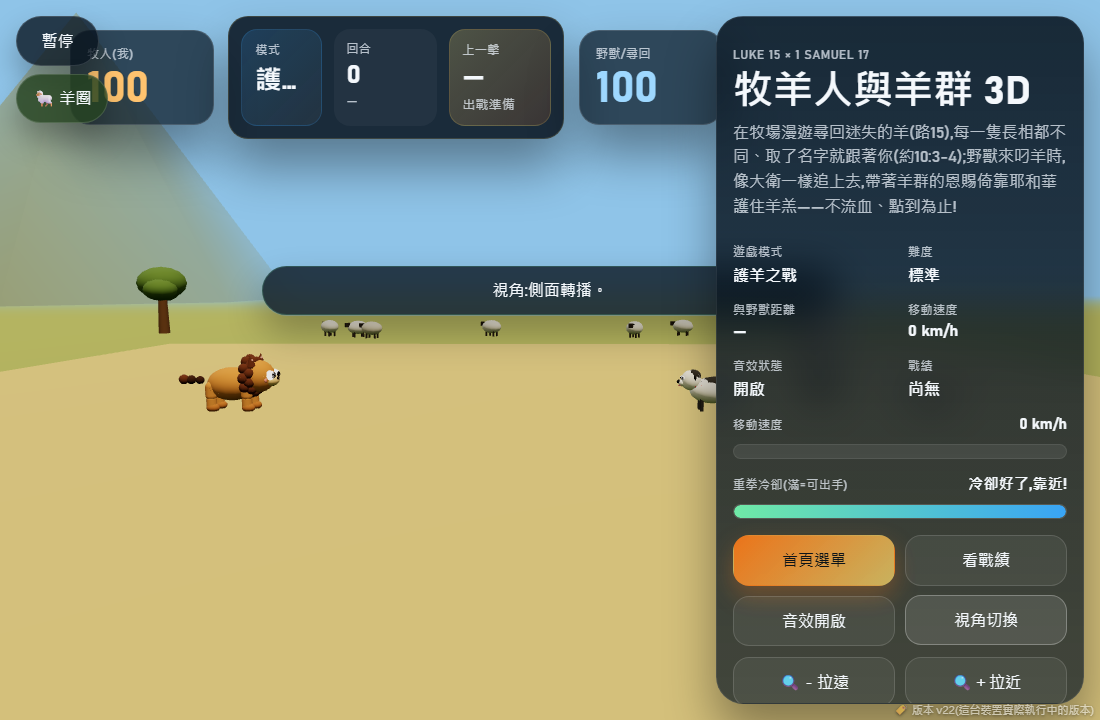
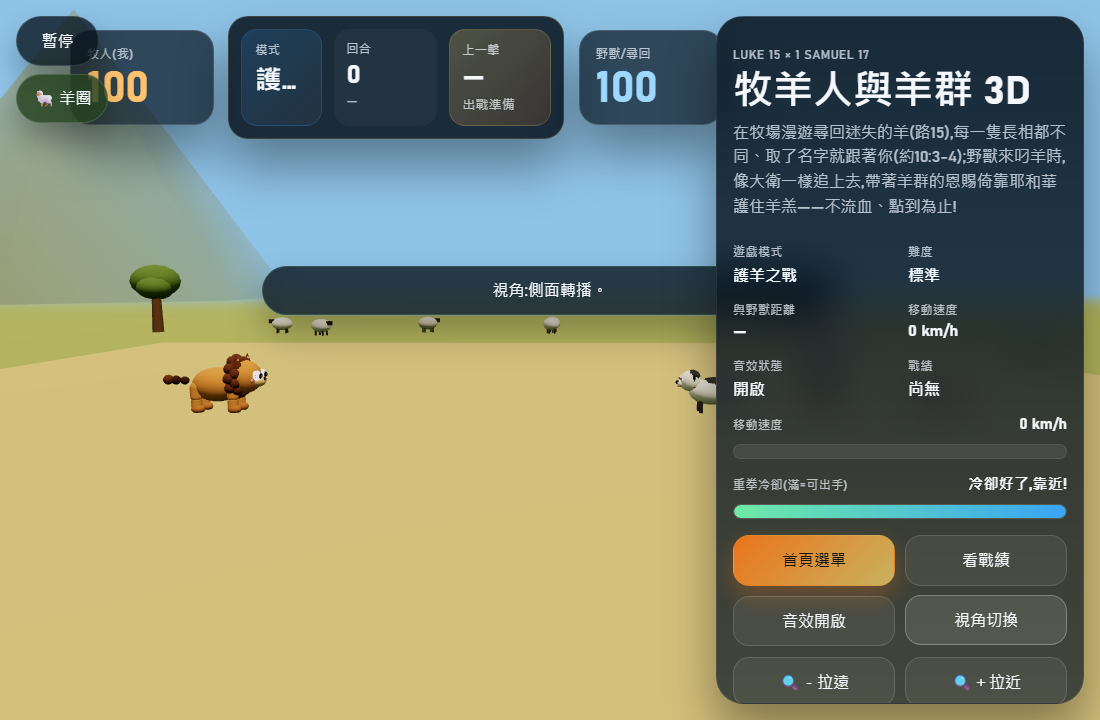
chore: v23 羊圈格式同步 sex/deco(尋羊記 v29 加的公母與配飾)
★ 本站畫法不動:makeGeneSheep 不吃 sex ⇒ 不畫配飾(降級,不會壞)。
  同步的目的是 normalizeEntry 不要把這兩個欄位洗掉——不然羊搬過來再搬回去會掉配飾。
  (那兩個欄位是從 id 現算的,就算掉了對面也會重新算出同一隻;同步只是讓格式乾淨。)
★ sheepdex.js 是 skill sheepdex-crossite 的垂直搬運複本,三份 md5 逐位元相同。

Claude-Session: https://claude.ai/code/session_01R6A5uVerbpGQsdQ5KGkEiV

diff --git a/src/sheepdex.js b/src/sheepdex.js
@@ -71,6 +71,24 @@
   var SPOTS = ["none", "none", "patch", "dots"];
   var EARS = ["up", "down", "long"];
   var EYES = ["round", "sleepy", "happy"];
+  /* ---------- 性別與配飾(2026-08-26 新增)----------
+     使用者:「母的可以穿裙子或頭戴髮飾,公羊可以戴帽子或太陽眼鏡之類的,
+              這樣明信片裡,被救的羊,就不會都長得一樣。」
+     ★★ **這兩個欄位一定要抽在 randomGenes 的最後面**(見那支函式的註解):
+        在中間插一次 r() 會讓後面所有欄位偏移 ⇒ **既有的羊全部換臉**。
+     ★★ 而且它們是**從 id 現算的,不是靠傳輸的** —— normalizeEntry 會把 genes 整個重建,
+        舊版的站(還沒更新這支檔的)會把不認識的欄位洗掉。設計成現算之後:
+          · 舊站收到新羊 → 算不出 sex(它的 randomGenes 沒有)⇒ **不畫配飾,不會壞**(降級)
+          · 新站收到舊羊 → 用同一個 id 現算 ⇒ 一樣有配飾
+        ⇒ 兩邊都不必等對方升級,也不必動 Worker 中繼站。
+     ⚠ 配飾**不影響任何玩法數值**(不像 gift 會影響戰鬥)——純外觀,才可以這樣現算。 */
+  var SEXES = ["ewe", "ram"];
+  var DECOS = {
+    // 母羊:裙子 / 髮飾(花)/ 髮飾(蝴蝶結)/ 兩者都有
+    ewe: ["skirt", "flower", "bow", "skirt+flower"],
+    // 公羊:帽子 / 太陽眼鏡 / 圍巾 / 帽子+太陽眼鏡
+    ram: ["hat", "shades", "scarf", "hat+shades"],
+  };
 
   var NAME_POOL = [
     "小雪", "棉棉", "咩咩", "乖乖", "毛毛", "恩典", "平安", "喜樂", "小雲", "奶油",
@@ -105,7 +123,7 @@
   function randomGenes(rand) {
     var r = typeof rand === "function" ? rand : Math.random;
     var pick = function (arr) { return arr[Math.floor(r() * arr.length)]; };
-    return {
+    var g = {
       wool: pick(WOOL_COLORS),
       face: pick(FACE_COLORS),
       spots: pick(SPOTS),
@@ -114,6 +132,11 @@
       gift: pick(GIFT_ORDER),
       size: 0.88 + r() * 0.26,
     };
+    /* ⚠⚠ 新欄位一律**接在這裡(最後)**,絕不插進上面那一串 ——
+       每一行都消耗一次 r(),中間插一次會讓後面全部偏移 ⇒ 既有的羊整批換臉。 */
+    g.sex = pick(SEXES);
+    g.deco = pick(DECOS[g.sex]);
+    return g;
   }
 
   /* 同一個種子 → 永遠同一隻羊的長相(兩站一致)。種子一律用 entry.id。 */
@@ -167,6 +190,9 @@
       eyes: EYES.indexOf(g.eyes) >= 0 ? g.eyes : base.eyes,
       gift: GIFT_ORDER.indexOf(g.gift) >= 0 ? g.gift : base.gift,
       size: Number(g.size) >= 0.5 && Number(g.size) <= 2 ? Number(g.size) : base.size,
+      // 性別與配飾:對面站可能整個沒有(舊版)⇒ 一律用 id 現算的 base 補齊
+      sex: SEXES.indexOf(g.sex) >= 0 ? g.sex : base.sex,
+      deco: (DECOS[SEXES.indexOf(g.sex) >= 0 ? g.sex : base.sex] || []).indexOf(g.deco) >= 0 ? g.deco : base.deco,
     };
     if (s.gold) out.gold = true; else delete out.gold;
     if (s.rescued) out.rescued = String(s.rescued).slice(0, 12); else delete out.rescued;
@@ -324,6 +350,7 @@
   return {
     DEX_KEY: DEX_KEY, SQUAD_MAX: SQUAD_MAX, FOLLOW_MAX: FOLLOW_MAX,
     GIFTS: GIFTS, GIFT_ORDER: GIFT_ORDER, NAME_POOL: NAME_POOL,
+    SEXES: SEXES, DECOS: DECOS,
     WOOL_COLORS: WOOL_COLORS, FACE_COLORS: FACE_COLORS, SPOTS: SPOTS, EARS: EARS, EYES: EYES,
     hashSeed: hashSeed, mulberry32: mulberry32, randomGenes: randomGenes, genesFromSeed: genesFromSeed,
     hexCss: hexCss, pickName: pickName,

diff --git a/public/sw.js b/public/sw.js
@@ -65,7 +65,12 @@
 //                   改成**相對鏡頭**:比較角色右向量與鏡頭右向量,反向就翻符號;
 //                   |點積|<0.3(角色正對/背對鏡頭)沿用上一次的符號,避免在奇異點翻來翻去。
 //                   ★ 跟隨(點積 +1)與側身跟隨(+0.08 走 hysteresis)行為完全不變。
-const CACHE_NAME = "sheepflock3d-v22";
+// v23(2026-08-26):🐑 羊圈格式同步 sex/deco(尋羊記 v29 加的公母與配飾)。
+//                 ★ 本站**畫法不動**:它的 makeGeneSheep 不吃 sex ⇒ 不畫配飾(降級,不會壞)。
+//                   同步的目的是 normalizeEntry **不要把這兩個欄位洗掉**——不同步的話,
+//                   羊搬過來再搬回去會掉配飾。(不過那兩個欄位是從 id 現算的,所以就算掉了
+//                   對面也會重新算出同一隻;同步只是讓格式乾淨。)
+const CACHE_NAME = "sheepflock3d-v23";
 const CORE_ASSETS = ["/", "/index.html", "/manifest.webmanifest", "/icon.svg", "/icon-maskable.svg"];
 
 self.addEventListener("install", (event) => {
